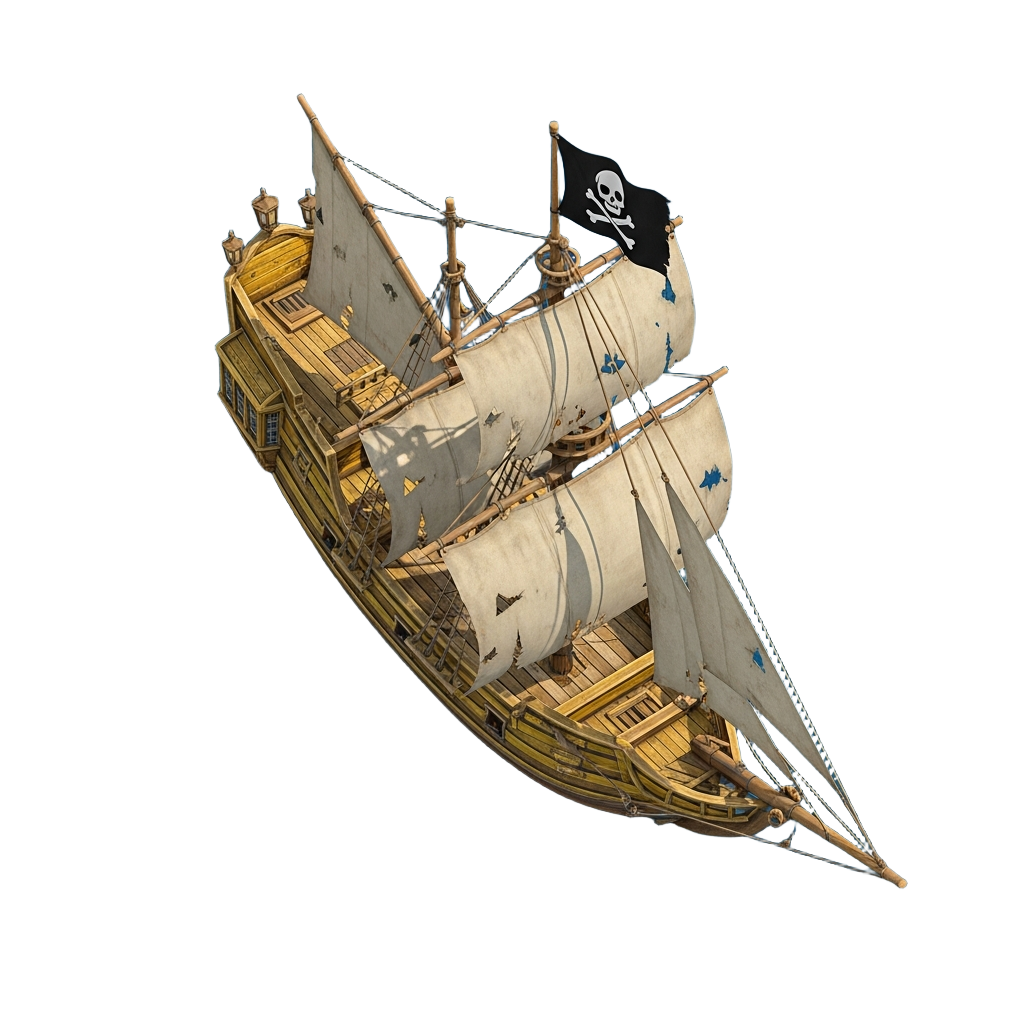
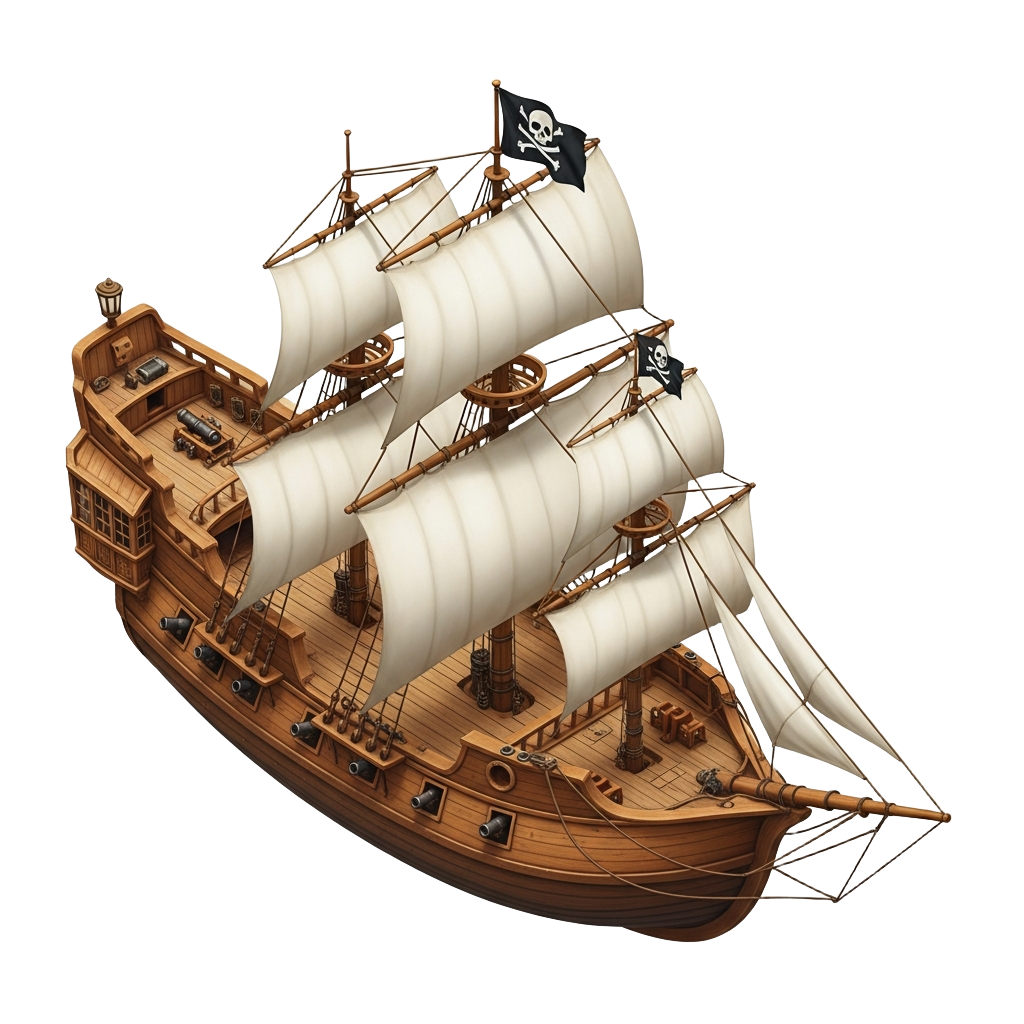
Update ship visuals and cannonball firing mechanics
Replaces player ship sprite with a new v2 version, updates NPC ship sprites to isometric views, and modifies cannonball projectiles to fire in a three-ball spread with muzzle flash and smoke trails. Ship sprite rotation is corrected to align with movement direction, and wake position is now dynamic.

Replit-Commit-Author: Agent
Replit-Commit-Session-Id: d482a607-7a09-4602-8a2a-3c7940eff7a0
Replit-Commit-Checkpoint-Type: full_checkpoint
Replit-Commit-Event-Id: 00982116-46e3-47e7-a207-705914327416
Replit-Commit-Screenshot-Url: https://storage.googleapis.com/screenshot-production-us-central1/a28bf594-2d5b-4832-8193-846d8fd34b18/d482a607-7a09-4602-8a2a-3c7940eff7a0/mbT7VbQ
Replit-Helium-Checkpoint-Created: true

diff --git a/scenes/GameScene.js b/scenes/GameScene.js
@@ -194,7 +194,7 @@ export default class GameScene extends Phaser.Scene {
     }
 
     preload() {
-        this.load.image('player-ship',         'assets/player_ship_royal_crimson_v1.webp');
+        this.load.image('player-ship',         'assets/player_ship_royal_crimson_v2.png');
         this.load.image('player-ship-neon',    'assets/player_ship_neon_pro.webp');
         this.load.image('player-ship-pro',     'assets/player_ship_pro.webp');
         this.load.image('player-ship-frigate1','assets/player_ship_frigate_1.png');
@@ -5173,9 +5173,71 @@ handleResize(gameSize) {
             return;
         }
 
+        /* ── Seafight-Breitseiten-Salve: 3 kleine Kugeln staggered 55ms ─────────
+           Cannonball fires 3 small iron balls in a tight spread — like a real
+           broadside volley. Other ammo types fire a single dramatic projectile. */
+        if (ammoKey === 'cannonball') {
+            const BALL_COUNT   = 3;
+            const SPREAD_DEG   = 0.10;  /* Halbe Spreizung in Radians (~5.7°) */
+            const STAGGER_MS   = 55;    /* Zeitversatz zwischen den Kugeln */
+            const BALL_SIZE    = vis.size - 3; /* Kleiner als vorher (size=7 → 4) */
+            const goldenBall   = vis.golden ?? false;
+            let impactDone     = false;
+
+            for (let i = 0; i < BALL_COUNT; i++) {
+                const spread = (i - 1) * SPREAD_DEG; /* -0.10, 0, +0.10 */
+                const shotAngle = facingAngle + spread;
+                const bx = spawnX + Math.cos(shotAngle) * 8;
+                const by = spawnY + Math.sin(shotAngle) * 8;
+                /* Ziel leicht versetzt damit die Kugeln nicht exakt übereinander landen */
+                const tx = target.x + (i - 1) * 6 * Math.cos(facingAngle + Math.PI / 2);
+                const ty = target.y + (i - 1) * 6 * Math.sin(facingAngle + Math.PI / 2);
+
+                this.time.delayedCall(i * STAGGER_MS, () => {
+                    const ball  = this.add.circle(bx, by, BALL_SIZE, vis.color, 1).setDepth(1200);
+                    const smoke = this.add.circle(bx, by, BALL_SIZE + 2, 0x888888, 0.5)
+                                    .setBlendMode(Phaser.BlendModes.ADD).setDepth(1199);
+                    if (goldenBall) ball.setStrokeStyle(1, 0xffd700, 0.9);
+
+                    /* Mündungsblitz bei Abfeuern */
+                    const flash = this.add.circle(bx, by, 9, 0xffffaa, 0.9)
+                                    .setBlendMode(Phaser.BlendModes.ADD).setDepth(1201);
+                    this.tweens.add({ targets: flash, scaleX: 0, scaleY: 0, alpha: 0,
+                        duration: 90, onComplete: () => flash.destroy() });
+
+                    let tick = 0;
+                    this.tweens.add({
+                        targets: [ball, smoke], x: tx, y: ty,
+                        duration: vis.duration, ease: 'Linear',
+                        onUpdate: (tw) => {
+                            smoke.setPosition(ball.x, ball.y);
+                            tick += tw.delta ?? 16;
+                            if (tick >= 70) {
+                                tick = 0;
+                                const puff = this.add.circle(ball.x, ball.y, 4, 0xaaaaaa, 0.35)
+                                                .setBlendMode(Phaser.BlendModes.ADD).setDepth(1195);
+                                this.tweens.add({ targets: puff, scaleX: 2, scaleY: 2, alpha: 0,
+                                    duration: 280, onComplete: () => puff.destroy() });
+                            }
+                        },
+                        onComplete: () => {
+                            ball.destroy(); smoke.destroy();
+                            /* Nur die mittlere Kugel (i=1) löst Impact + Splash aus */
+                            if (i === 1 && !impactDone) {
+                                impactDone = true;
+                                this._spawnImpact(tx, ty, vis, false);
+                                this._spawnWaterSplash(tx, ty);
+                            }
+                        }
+                    });
+                });
+            }
+            return;
+        }
+
+        /* ── Alle anderen Ammo-Typen: einzelnes dramatisches Projektil ── */
         const projectile = this.add.circle(spawnX, spawnY, vis.size, vis.color, 1)
-            .setBlendMode(ammoKey !== 'cannonball' ? Phaser.BlendModes.ADD : Phaser.BlendModes.NORMAL)
-            .setDepth(1200);
+            .setBlendMode(Phaser.BlendModes.ADD).setDepth(1200);
         const trail = this.add.circle(spawnX, spawnY, vis.trailSize, vis.trail, 0.4)
             .setBlendMode(Phaser.BlendModes.ADD).setDepth(1199);
 
@@ -5198,11 +5260,10 @@ handleResize(gameSize) {
             onUpdate: (tw) => {
                 trail.setPosition(projectile.x, projectile.y);
                 trail.alpha = projectile.alpha * 0.5;
-                /* Rauchpuff-Spur für alle Ammo-Typen */
                 _trailTick += tw.delta ?? 16;
                 if (_trailTick >= 88) {
                     _trailTick = 0;
-                    const puffColor = ammoKey === 'fire' ? 0xff3300 : ammoKey === 'chain' ? 0x886600 : 0xaaaaaa;
+                    const puffColor = ammoKey === 'fire' ? 0xff3300 : 0xaaaaaa;
                     const puff = this.add.circle(projectile.x, projectile.y, vis.trailSize + 2, puffColor, 0.45)
                         .setBlendMode(Phaser.BlendModes.ADD).setDepth(1195);
                     this.tweens.add({ targets: puff, scaleX: 2.2, scaleY: 2.2, alpha: 0,
@@ -5211,9 +5272,7 @@ handleResize(gameSize) {
             },
             onComplete: () => {
                 trail.destroy(); projectile.destroy();
-                this._spawnImpact(target.x, target.y, vis, ammoKey !== 'cannonball');
-                /* Water splash only for iron cannonballs — other ammo has its own drama */
-                if (ammoKey === 'cannonball') this._spawnWaterSplash(target.x, target.y);
+                this._spawnImpact(target.x, target.y, vis, true);
             }
         });
     }

diff --git a/entities/Ship.js b/entities/Ship.js
@@ -178,11 +178,15 @@ export default class Ship extends Phaser.GameObjects.Container {
     }
 
     update() {
-        const diff = Phaser.Math.Angle.Wrap(this.targetAngle - this.sprite.rotation);
-        
+        /* Sprites in PNG zeigen Bug nach OBEN (North) — Phaser targetAngle 0 = RECHTS (East).
+           Versatz: +π/2 so dass das Schiff immer in die tatsächliche Bewegungsrichtung zeigt. */
+        const SPRITE_OFFSET = Math.PI / 2;
+        const visualTarget  = this.targetAngle + SPRITE_OFFSET;
+
         if (this.useSpriteRotation) {
+            const diff = Phaser.Math.Angle.Wrap(visualTarget - this.sprite.rotation);
             if (Math.abs(diff) < this.rotationSpeed) {
-                this.sprite.rotation = this.targetAngle;
+                this.sprite.rotation = visualTarget;
             } else {
                 this.sprite.rotation += Math.sign(diff) * this.rotationSpeed;
             }
@@ -192,7 +196,13 @@ export default class Ship extends Phaser.GameObjects.Container {
         }
         
         if (this.wake) {
-            this.wake.rotation = this.targetAngle + Math.PI;
+            /* Wake-Position dynamisch hinter dem Schiff (relativ zum Container) */
+            const behindDist = 22;
+            this.wake.setPosition(
+                Math.cos(this.targetAngle + Math.PI) * behindDist,
+                Math.sin(this.targetAngle + Math.PI) * behindDist
+            );
+            this.wake.rotation = this.targetAngle + Math.PI + SPRITE_OFFSET;
         }
 
         /* Foam trail — nur für Spielerschiff (this._isPlayer); NPCs erzeugen keinen Schaum
